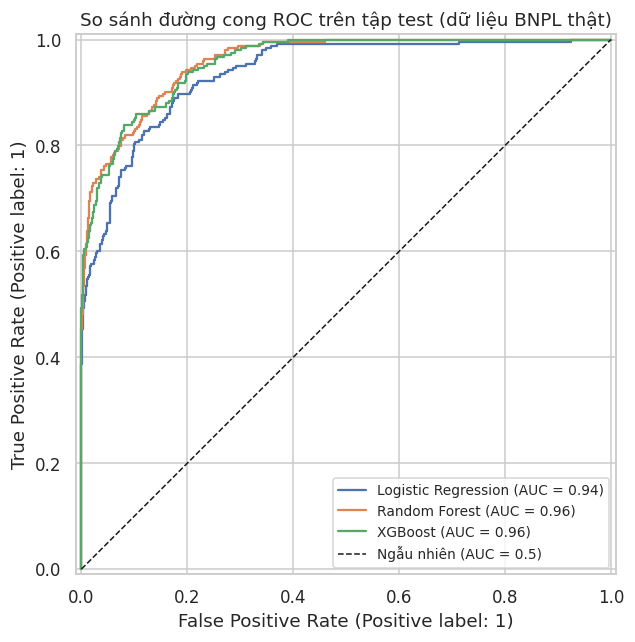
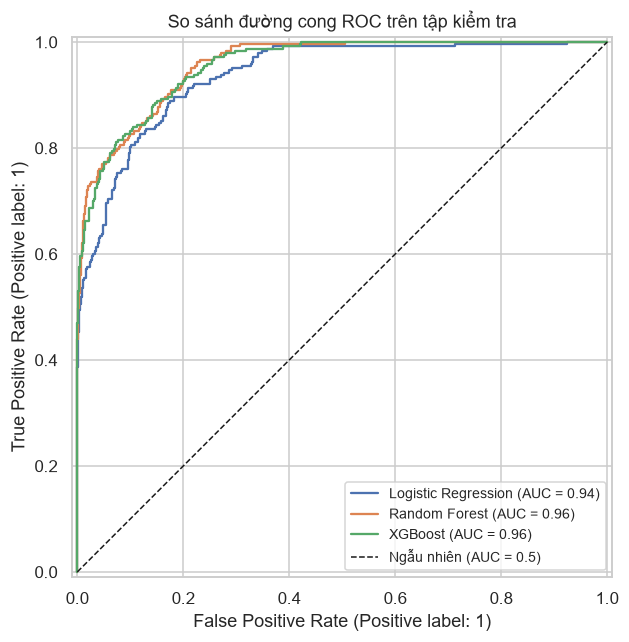
update

diff --git a/bnpl-churn/notebooks/04_modeling.py b/bnpl-churn/notebooks/04_modeling.py
@@ -36,7 +36,7 @@ plt.rcParams["figure.dpi"] = 110
 sns.set_theme(style="whitegrid")
 RANDOM_STATE = 42
 
-BASE_DIR = "/content/drive/MyDrive/ChuyenDe_BNPL_Churn"
+BASE_DIR = os.path.dirname(os.path.dirname(os.path.abspath(__file__)))
 DATA_DIR = f"{BASE_DIR}/data"
 REPORTS_DIR = f"{BASE_DIR}/reports"
 FIG_DIR = f"{REPORTS_DIR}/figures"
@@ -244,7 +244,7 @@ models = {
             (
                 "clf",
                 RandomForestClassifier(
-                    n_estimators=300,
+                    n_estimators=500,
                     min_samples_leaf=5,
                     class_weight="balanced",
                     n_jobs=-1,
@@ -314,14 +314,14 @@ for name, m in models.items():
         }
     )
 results = pd.DataFrame(rows).set_index("Model").round(4)
-results.to_csv(f"{REPORTS_DIR}/model_comparison_bnpl.csv")
+results.to_csv(f"{REPORTS_DIR}/model_comparison_bnpl.csv", encoding="utf-8-sig")
 results
 
 fig, ax = plt.subplots(figsize=(7, 6))
 for name, m in fitted.items():
     RocCurveDisplay.from_estimator(m, X_te, y_te, ax=ax, name=name)
 ax.plot([0, 1], [0, 1], "k--", lw=1, label="Ngẫu nhiên (AUC = 0.5)")
-ax.set_title("So sánh đường cong ROC trên tập test (dữ liệu BNPL thật)")
+ax.set_title("So sánh đường cong ROC trên tập kiểm tra")
 ax.legend(loc="lower right", fontsize=9)
 plt.tight_layout()
 plt.savefig(f"{FIG_DIR}/bnpl_roc_comparison.png", bbox_inches="tight")
@@ -411,6 +411,17 @@ tuned_proba = grid.best_estimator_.predict_proba(X_te)[:, 1]
 tuned_auc = roc_auc_score(y_te, tuned_proba)
 print("AUC test sau tuning:", round(tuned_auc, 4))
 
+tuned_pred = (tuned_proba >= 0.5).astype(int)
+results.loc["XGBoost (tuned)"] = [
+    round(roc_auc_score(y_te, tuned_proba), 4),
+    round(average_precision_score(y_te, tuned_proba), 4),
+    round(f1_score(y_te, tuned_pred), 4),
+    round(precision_score(y_te, tuned_pred), 4),
+    round(recall_score(y_te, tuned_pred), 4),
+    round(accuracy_score(y_te, tuned_pred), 4),
+]
+results.to_csv(f"{REPORTS_DIR}/model_comparison_bnpl.csv", encoding="utf-8-sig")
+
 if tuned_auc >= results.loc[best_name, "AUC"]:
     best_name, best_model = "XGBoost (tuned)", grid.best_estimator_
 print("Model cuối cùng:", best_name)
@@ -449,9 +460,9 @@ artifact = {
     "T_ref": str(T_ref.date()),
     "OBS_DATE": str(OBS_DATE.date()),
     "churn_window_days": CHURN_WINDOW_DAYS,
-    "metrics_test": results.loc[best_name.replace(" (tuned)", "")].to_dict(),
+    "metrics_test": results.loc[best_name].to_dict(),
     "churn_rate": float(y.mean()),
-    "data_source": "bnpl_transactions_clean.csv + bnpl_customers_clean.csv (dữ liệu thật của nhóm)",
+    "data_source": "bnpl_transactions_clean.csv + bnpl_customers_clean.csv (dữ liệu tổng hợp của nhóm)",
     "trained_at": str(pd.Timestamp.now()),
 }
 joblib.dump(artifact, f"{MODELS_DIR}/churn_model_bnpl.pkl")

diff --git a/bnpl-churn/notebooks/05_model_selection.py b/bnpl-churn/notebooks/05_model_selection.py
@@ -1,4 +1,5 @@
 import json
+import os
 
 import joblib
 import matplotlib.pyplot as plt
@@ -13,7 +14,7 @@ plt.rcParams["figure.dpi"] = 110
 sns.set_theme(style="whitegrid")
 RANDOM_STATE = 42
 
-BASE_DIR = "/content/drive/MyDrive/ChuyenDe_BNPL_Churn"
+BASE_DIR = os.path.dirname(os.path.dirname(os.path.abspath(__file__)))
 DATA_DIR = f"{BASE_DIR}/data"
 REPORTS_DIR = f"{BASE_DIR}/reports"
 FIG_DIR = f"{REPORTS_DIR}/figures"
@@ -44,16 +45,23 @@ qualitative = pd.DataFrame(
             "Cao (hệ số tuyến tính)",
             "Trung bình (feature_importances_)",
             "Trung bình-Thấp (cần SHAP)",
+            "Trung bình (đã bổ trợ bằng SHAP)",
         ],
-        "Độ phức tạp huấn luyện": ["Thấp", "Trung bình", "Cao (nhiều siêu tham số)"],
-        "Độ nhạy với outlier": ["Cao (cần chuẩn hóa)", "Thấp", "Thấp"],
+        "Độ phức tạp huấn luyện": [
+            "Thấp",
+            "Trung bình",
+            "Cao (nhiều siêu tham số)",
+            "Cao (GridSearchCV)",
+        ],
+        "Độ nhạy với outlier": ["Cao (cần chuẩn hóa)", "Thấp", "Thấp", "Thấp"],
         "Phù hợp production": [
             "Dễ giám sát/giải trình",
             "Cân bằng",
-            "Hiệu năng cao nhất, cần theo dõi thêm",
+            "Cấu hình cơ sở trước khi tinh chỉnh",
+            "Mô hình chính thức của ứng dụng",
         ],
     },
-    index=["Logistic Regression", "Random Forest", "XGBoost"],
+    index=["Logistic Regression", "Random Forest", "XGBoost", "XGBoost (tuned)"],
 )
 
 summary_table = results.join(qualitative)
@@ -67,12 +75,13 @@ metrics_plot.plot(
 )
 axes[0].set_ylim(0, 1)
 axes[0].set_ylabel("Điểm số")
-axes[0].set_title("So sánh 4 chỉ số chính giữa 3 mô hình")
+axes[0].set_title("So sánh 4 chỉ số chính giữa các mô hình")
 axes[0].legend(fontsize=8, ncol=2)
 axes[0].tick_params(axis="x", rotation=15)
 
 axes[1].scatter(
-    results["Precision"], results["Recall"], s=180, c=["#457b9d", "#2a9d8f", "#e76f51"]
+    results["Precision"], results["Recall"], s=180,
+    c=["#457b9d", "#2a9d8f", "#f2b134", "#e76f51"][: len(results)],
 )
 for name, row in results.iterrows():
     axes[1].annotate(
@@ -141,7 +150,7 @@ compare
 
 final_name = artifact["best_name"]
 final_pipe = artifact["pipeline"]
-final_metrics = results.loc[final_name.replace(" (tuned)", "")].to_dict()
+final_metrics = results.loc[final_name].to_dict()
 
 final_artifact = {
     **artifact,

diff --git a/bnpl-churn/README.md b/bnpl-churn/README.md
@@ -1,101 +1,137 @@
-# PHÂN TÍCH HÀNH VI VÀ DỰ BÁO KHẢ NĂNG RỜI BỎ CỦA KHÁCH HÀNG SẢN PHẨM MUA TRƯỚC TRẢ SAU (BNPL) ỨNG DỤNG HỌC MÁY
+# Phân tích hành vi và dự báo khả năng rời bỏ của khách hàng sản phẩm Mua trước trả sau (BNPL) ứng dụng học máy
 
-Chuyên đề tốt nghiệp Cử nhân Công nghệ Thông tin
-Trường Đại học Công nghệ Thông tin – ĐHQG-HCM
+Chuyên đề tốt nghiệp IE400 - Trường Đại học Công nghệ Thông tin, ĐHQG-HCM
 Khoa Khoa học và Kỹ thuật Thông tin
 
-Sinh viên thực hiện:
-- Cao Thị Hoàng Lan (MSSV: 25210129)
-- Mai Thị Anh Đào (MSSV: 25210078)
-
-Giảng viên hướng dẫn:
-- ThS. Mai Xuân Hùng
-
----
-
-## 1. Giới thiệu đề tài
-
-Dịch vụ Mua trước trả sau (Buy Now, Pay Later - BNPL) trên ví điện tử là dịch vụ tài chính phi hợp đồng (non-contractual). Khách hàng không thực hiện thủ tục hủy dịch vụ mà thường âm thầm ngừng phát sinh giao dịch, dẫn đến hiện tượng rời bỏ im lặng (silent churn).
-
-Đề tài tập trung giải quyết các bài toán sau:
-- Định nghĩa nhãn Churn phi hợp đồng: Khách hàng không phát sinh giao dịch nào trong 60 ngày liên tiếp.
-- Xử lý triệt để rò rỉ nhãn (Data Leakage): Tách biệt thời gian tính toán đặc trưng (trước mốc tham chiếu T_ref = 31/10/2024) và thời gian gán nhãn dự báo (sau mốc T_ref).
-- Phân tích khám phá dữ liệu (EDA) và Cohort: Xác định cửa sổ vàng giữ chân khách hàng trong 30 ngày đầu tiên và khảo sát sự phân hóa tỷ lệ rời bỏ theo danh mục chi tiêu.
-- Xây dựng mô hình phân loại học máy: So sánh Logistic Regression, Random Forest và XGBoost; diễn giải đóng góp của từng đặc trưng bằng giá trị SHAP (SHapley Additive exPlanations).
-- Triển khai ứng dụng thực tế: Xây dựng Dashboard phân tích và công cụ dự báo trực quan trên giao diện Streamlit.
+| | |
+|---|---|
+| Sinh viên thực hiện | Cao Thị Hoàng Lan (25210129), Mai Thị Anh Đào (25210078) |
+| Giảng viên hướng dẫn | ThS. Mai Xuân Hùng |
+| Ứng dụng trực tuyến | https://bnpl-churn-prediction-j6jkrbefserjvhsoykqjdc.streamlit.app |
 
 ---
 
-## 2. Dữ liệu và Các phát hiện cốt lõi
+## 1. Giới thiệu
 
-Dự án sử dụng tập dữ liệu mô phỏng hành vi khách hàng BNPL trên ví điện tử Việt Nam gồm 8.000 khách hàng và 64.746 giao dịch năm 2024 (tỷ lệ rời bỏ trên 7.024 khách hàng đã giao dịch là 17,6%).
+Dịch vụ Mua trước trả sau (Buy Now, Pay Later - BNPL) trên ví điện tử là dịch vụ phi hợp đồng: khách hàng không làm thủ tục hủy mà lặng lẽ ngừng giao dịch (silent churn). Đề tài xây dựng quy trình hoàn chỉnh từ dữ liệu đến ứng dụng:
 
-Ba insight cốt lõi thu được từ phân tích:
-1. Phân hóa theo Danh mục thanh toán: Tỷ lệ churn phân hóa gần 8 lần giữa các danh mục. Các nhóm thiết yếu, định kỳ (Viễn thông 5,8%, Điện & Nước 6,2%) giữ chân tốt hơn hẳn các nhóm mua sắm theo dịp, mùa vụ (Điện tử 44,5%, Du lịch & Vận chuyển 35,7%, Giải trí 32,4%).
-2. Ngưỡng sống còn theo vòng đời FPU/RPU: Tỷ lệ rời bỏ giảm mạnh theo số lượng giao dịch tích lũy: Nhóm khách hàng chỉ giao dịch 1 lần (FPU) có churn rate lên tới 67,5%, giảm xuống 38,8% ở nhóm RPU_Early (2-5 giao dịch) và chỉ còn 0,7% ở nhóm RPU_Loyal (> 15 giao dịch). Thời gian trung vị để khách hàng thực hiện giao dịch thứ hai là 29 ngày.
-3. Cửa sổ vàng can thiệp: Phân tích Cohort MoM Retention chỉ ra mức sụt giảm lớn nhất (31,3 điểm phần trăm) diễn ra ngay trong 30 ngày đầu sau giao dịch đầu tiên (tháng 1 còn 68,7%), sau đó đường cong giữ chân đi ngang ổn định quanh mức 71% - 74%.
+- **Định nghĩa churn**: khách hàng không phát sinh giao dịch trong 60 ngày liên tiếp.
+- **Chống rò rỉ nhãn**: đặc trưng chỉ tính từ giao dịch trước mốc tham chiếu `T_ref = 31/10/2024`, nhãn xác định từ hoạt động sau mốc này.
+- **Phân tích hành vi**: Cohort MoM Retention, vòng đời FPU/RPU, tỷ lệ rời bỏ theo danh mục thanh toán.
+- **Mô hình học máy**: so sánh Logistic Regression, Random Forest, XGBoost; diễn giải bằng SHAP.
+- **Ứng dụng web Streamlit**: dashboard phân tích và công cụ dự báo cho từng khách hàng hoặc theo lô.
 
----
+## 2. Dữ liệu và phát hiện chính
 
-## 3. Hiệu năng mô hình học máy
+Tập dữ liệu tổng hợp mô phỏng hành vi khách hàng BNPL trên ví điện tử Việt Nam: 8.000 khách hàng, 64.746 giao dịch năm 2024. Tỷ lệ churn trên 7.024 khách hàng đã giao dịch là 17,6%.
 
-Các mô hình được huấn luyện trên 27 đặc trưng (RFM, hành vi thanh toán, nhân khẩu học) và đánh giá trên tập kiểm tra độc lập 1.353 khách hàng:
+1. **Danh mục thanh toán**: churn chênh lệch gần 8 lần giữa các danh mục. Nhóm thiết yếu, định kỳ giữ chân tốt (Viễn thông 5,8%, Điện & Nước 6,2%); nhóm mua theo dịp rời bỏ nhiều (Điện tử 44,5%, Du lịch & Vận chuyển 35,7%, Giải trí 32,4%).
+2. **Vòng đời FPU/RPU**: churn giảm mạnh theo số giao dịch tích lũy, từ 67,5% ở nhóm chỉ giao dịch 1 lần (FPU) xuống 38,8% (RPU_Early, 2-5 giao dịch) và 0,7% (RPU_Loyal, trên 15 giao dịch). Trung vị thời gian đến giao dịch thứ hai là 29 ngày.
+3. **Cửa sổ vàng 30 ngày**: retention sụt mạnh nhất ngay tháng đầu (còn 68,7%), sau đó đi ngang quanh 71-74%.
 
-| Mô hình | ROC-AUC | PR-AUC | Precision | Recall | F1-Score |
+## 3. Kết quả mô hình
+
+Huấn luyện trên 27 đặc trưng (23 số, 4 phân loại), đánh giá trên tập kiểm tra độc lập 1.353 khách hàng:
+
+| Mô hình | ROC-AUC | PR-AUC | Precision | Recall | F1-score |
 | :--- | :---: | :---: | :---: | :---: | :---: |
-| Logistic Regression | 0.937 | 0.827 | 0.532 | 0.868 | 0.659 |
-| Random Forest | 0.959 | 0.879 | 0.791 | 0.761 | 0.776 |
-| XGBoost (Mặc định) | 0.957 | 0.875 | 0.765 | 0.761 | 0.763 |
-| XGBoost (Tuned) | 0.960 | 0.879 | 0.673 | 0.823 | 0.741 |
+| Logistic Regression | 0,937 | 0,827 | 0,532 | 0,868 | 0,659 |
+| Random Forest | 0,959 | 0,879 | 0,791 | 0,761 | 0,776 |
+| XGBoost | 0,957 | 0,875 | 0,765 | 0,761 | 0,763 |
+| **XGBoost (đã tinh chỉnh)** | **0,960** | **0,879** | 0,673 | **0,823** | 0,741 |
 
-Mô hình được chọn triển khai:
-XGBoost đã tinh chỉnh qua GridSearchCV (max_depth = 3, learning_rate = 0.05) được chọn làm mô hình chính thức. Mô hình đạt Recall = 0.823 (phát hiện được hơn 82% khách hàng sắp rời bỏ), phù hợp với mục tiêu giữ chân khách hàng khi chi phí bỏ sót một khách hàng lớn hơn nhiều chi phí gửi nhầm ưu đãi.
+Mô hình chính thức là XGBoost tinh chỉnh bằng GridSearchCV (`max_depth = 3`, `learning_rate = 0.05`): phát hiện được 82,3% khách hàng sắp rời bỏ. Theo SHAP, bốn đặc trưng ảnh hưởng mạnh nhất đều thuộc nhóm Recency/Frequency: `recency_days`, `txn_per_month`, `freq_180d`, `freq_90d`.
 
-Phân tích tầm quan trọng bằng SHAP:
-Bốn đặc trưng dẫn đầu đều thuộc nhóm Recency và Frequency: recency_days, txn_per_month, freq_180d và freq_90d. Điều này chứng minh tính liên tục và nhịp độ giao dịch đóng vai trò quyết định hơn giá trị chi tiêu tiền tệ.
+## 4. Cài đặt và chạy
 
----
+Yêu cầu Python 3.10 trở lên (khuyến nghị 3.11). Mọi lệnh chạy tại thư mục `bnpl-churn`.
 
-## 4. Cấu trúc thư mục dự án
+```bash
+git clone https://github.com/janecao262/UIT_IE400.git
+cd UIT_IE400/bnpl-churn
+
+python -m venv venv
+# Windows:        venv\Scripts\activate
+# macOS / Linux:  source venv/bin/activate
+
+pip install -r streamlit_app/requirements.txt
+streamlit run streamlit_app/1_Tổng_quan.py
+```
+
+Ứng dụng mở tại http://localhost:8501. Repo kèm sẵn dữ liệu và mô hình đã huấn luyện nên chạy được ngay, không cần huấn luyện lại.
+
+Hướng dẫn chi tiết từng bước, cách dùng từng trang và xử lý lỗi thường gặp: xem tài liệu **Hướng dẫn cài đặt và sử dụng** nộp kèm báo cáo.
+
+### Ứng dụng gồm 3 trang
+
+| Trang | Tệp | Chức năng |
+|---|---|---|
+| Tổng quan | `streamlit_app/1_Tổng_quan.py` | Chỉ số tổng quan, churn theo vòng đời và danh mục, bộ lọc ở thanh bên |
+| Cohort và Danh Mục | `streamlit_app/pages/2_Cohort_và_Danh_Mục.py` | Ma trận Cohort MoM Retention, retention theo danh mục, phân khúc FPU/RPU |
+| Dự báo Churn | `streamlit_app/pages/3_Dự_báo_Churn.py` | Dự báo một khách hàng (kèm SHAP) hoặc chấm điểm hàng loạt từ CSV, điều chỉnh ngưỡng phân lớp |
+
+## 5. Huấn luyện lại và kiểm thử (tùy chọn)
+
+```bash
+pip install shap pytest
+
+# Tắt cửa sổ biểu đồ khi chạy script
+# Windows (cmd): set MPLBACKEND=Agg   |   macOS / Linux: export MPLBACKEND=Agg
+python notebooks/03_cohort_analysis.py     # Cohort, FPU/RPU, danh mục -> reports/
+python notebooks/04_modeling.py            # Đặc trưng T_ref, huấn luyện 3 mô hình, GridSearchCV
+python notebooks/05_model_selection.py     # SHAP, xuất models/churn_model_final.pkl
+
+python -m pytest tests/ -q                 # 10 kịch bản TC01-TC10, kết quả mong đợi: 12 passed
+```
+
+Script 04 và 05 ghi đè mô hình và bảng kết quả, nên sao lưu `models/` và `reports/` trước. Mô hình trong repo là mô hình dùng cho số liệu báo cáo; huấn luyện lại bằng phiên bản thư viện mới hơn cho kết quả rất sát nhưng không trùng tuyệt đối (ROC-AUC 0,9598 so với 0,9600).
+
+## 6. Hai bảng đặc trưng có mục đích khác nhau
+
+| Tệp | Dùng cho | Ghi chú |
+|---|---|---|
+| `data/bnpl_customer_features.csv` | Phân tích mô tả, Trang 1-2 | Tổng hợp toàn kỳ 2024, **không** dùng để huấn luyện vì trùng với giai đoạn gán nhãn (rò rỉ nhãn) |
+| `data/bnpl_model_features.csv` | Huấn luyện, Trang 3 | 27 đặc trưng tính tại mốc `T_ref`, cột `churn` là nhãn |
+
+Trong mã nguồn, `app_utils.load_customer_features()` đọc bảng toàn kỳ và `app_utils.load_model_features()` đọc bảng tại `T_ref`.
+
+## 7. Cấu trúc thư mục
 
 ```text
 bnpl-churn/
 ├── data/
-│   ├── bnpl_customers_clean.csv          # Dữ liệu khách hàng đã làm sạch
-│   ├── bnpl_transactions_clean.csv       # Dữ liệu giao dịch đã làm sạch
-│   ├── bnpl_customer_features.csv        # Đặc trưng toàn kỳ (cho EDA và Trang 1-2)
-│   └── bnpl_model_features.csv           # Đặc trưng tính tại mốc T_ref (cho huấn luyện và Trang 3)
-│
+│   ├── bnpl_transactions_clean.csv      # Log giao dịch đã làm sạch
+│   ├── bnpl_customers_clean.csv         # Hồ sơ khách hàng đã làm sạch
+│   ├── bnpl_customer_features.csv       # Đặc trưng toàn kỳ (EDA, Trang 1-2)
+│   └── bnpl_model_features.csv          # Đặc trưng tại T_ref (huấn luyện, Trang 3)
 ├── models/
-│   ├── churn_model_bnpl.pkl              # Artifact mô hình cơ sở
-│   ├── churn_model_final.pkl             # Artifact mô hình cuối cùng phục vụ ứng dụng
-│   ├── metrics_bnpl.json                 # Chỉ số đánh giá mô hình
-│   └── model_selection_report.json       # Báo cáo lựa chọn mô hình và SHAP
-│
+│   ├── churn_model_final.pkl            # Mô hình ứng dụng đang dùng (XGBoost tuned)
+│   ├── churn_model_bnpl.pkl             # Mô hình trung gian do 04 tạo
+│   ├── metrics_bnpl.json                # Chỉ số đánh giá
+│   └── model_selection_report.json      # Kết quả lựa chọn mô hình và SHAP
 ├── notebooks/
-│   ├── 04_modeling.py                    # Huấn luyện mô hình chống rò rỉ nhãn tại T_ref
-│   └── 05_model_selection.py             # Đánh giá mô hình chi tiết và trích xuất SHAP
-│
-├── reports/
-│   ├── churn_by_category.csv             # Tỷ lệ rời bỏ theo danh mục thanh toán
-│   ├── cohort_retention_matrix.csv       # Ma trận giữ chân khách hàng theo cohort
-│   ├── cohort_summary_kpi.csv            # Tóm tắt chỉ số KPI cohort
-│   ├── lifecycle_segment_summary.csv     # Tổng hợp phân khúc vòng đời FPU/RPU
-│   ├── model_comparison_bnpl.csv         # Bảng so sánh định lượng các mô hình
-│   ├── model_selection_summary.csv       # Bảng so sánh định lượng và định tính
-│   ├── retention_curve_by_category.csv   # Đường cong giữ chân theo danh mục
-│   └── figures/                          # Biểu đồ phân tích và kết quả mô hình
-│
+│   ├── 03_cohort_analysis.py            # Cohort MoM, FPU/RPU, retention theo danh mục
+│   ├── 04_modeling.py                   # Đặc trưng T_ref, huấn luyện và tinh chỉnh
+│   └── 05_model_selection.py            # SHAP, chọn và xuất mô hình cuối
+├── reports/                             # Bảng số liệu và figures/ cho báo cáo, ứng dụng
 ├── streamlit_app/
-│   ├── 1_Tổng_quan.py                    # Màn hình 1: Tổng quan khách hàng và bộ lọc
-│   ├── app_utils.py                      # Hàm tiện ích nạp mô hình, dữ liệu và định dạng biểu đồ
-│   ├── requirements.txt                  # Danh sách thư viện phụ thuộc cho ứng dụng
+│   ├── 1_Tổng_quan.py                   # Trang 1 (tệp chính)
+│   ├── app_utils.py                     # Nạp dữ liệu, mô hình; style biểu đồ
+│   ├── requirements.txt                 # Thư viện cần cài
 │   └── pages/
-│       ├── 2_Cohort_và_Danh_Mục.py       # Màn hình 2: Phân tích Cohort MoM và Danh mục
-│       └── 3_Dự_báo_Churn.py             # Màn hình 3: Dự báo đơn lẻ (SHAP) và theo lô CSV
-│
+│       ├── 2_Cohort_và_Danh_Mục.py      # Trang 2
+│       └── 3_Dự_báo_Churn.py            # Trang 3
 ├── tests/
-│   └── test_app.py                       # Kịch bản kiểm thử tự động cho ứng dụng
-│
+│   └── test_app.py                      # Kiểm thử tự động TC01-TC10
 ├── .gitignore
 └── README.md
+```
+
+## 8. Triển khai trên Streamlit Community Cloud
+
+Tại https://share.streamlit.io, tạo ứng dụng từ repo này với:
+
+- **Branch**: `main`
+- **Main file path**: `bnpl-churn/streamlit_app/1_Tổng_quan.py`
+
+Streamlit Cloud tự cài thư viện theo `streamlit_app/requirements.txt` và triển khai lại mỗi khi có commit mới lên nhánh `main`.
